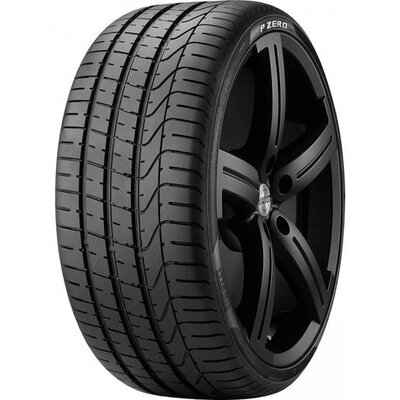
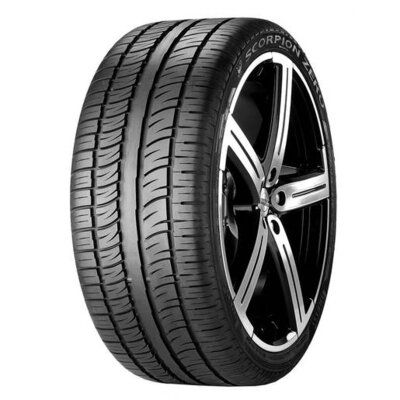
4th commit - add more cards, images and a footer

diff --git a/src/screens/CardProduto.jsx b/src/screens/CardProduto.jsx
@@ -11,21 +11,29 @@ import imagemNove from '../assets/img/volante-lotseRing.png';
 import imagemDez from '../assets/img/filtro-ar.png';
 import imagemOnze from '../assets/img/filtro-intake.png';
 import imagemDoze from '../assets/img/filtro-oleo.png';
+import imagemTreze from '../assets/img/roda-mercedes.png';
+import imagemQuatorze from '../assets/img/pneu-farroad.jpg';
+import imagemQuinze from '../assets/img/volante-lotseGT.png';
+import imagemDezesseis from '../assets/img/filtro-combustivel.jpg'
 import Card from 'react-bootstrap/Card';
 
 const produtos = [
-    { imagem: imagemUm, title: 'Audi', text: 'Rodas Aro 18 Audi RS6 Avant | Preta Diamantada', value: 'R$' },
-    { imagem: imagemDois, title: 'BMW', text: 'Rodas Aro 19 BMW M4 CS | Preta Diamantada', value: 'R$' },
-    { imagem: imagemTres, title: 'Volkswagen', text: 'Rodas Aro 20 Vw Tiguan R Line | Preta Diamantada', value: 'R$'  },
-    { imagem: imagemQuatro, title: 'Bridgestone', text: 'Pneu Bridgestone Aro 18 Potenza S001', value: 'R$'  },
-    { imagem: imagemCinco, title: 'Continental', text: 'Pneu Continental Aro 18 ContiSportContact 3', value: 'R$'  },
-    { imagem: imagemSeis, title: 'Pirelli', text: 'Pneu Pirelli Aro 18 P Zero', value: 'R$'  },
-    { imagem: imagemSete, title: 'Lotse', text: 'Volante Lotse Dakar', value: 'R$'  },
-    { imagem: imagemOito, title: 'Lotse', text: 'Volante Lotse Maxx Competition', value: 'R$'  },
-    { imagem: imagemNove, title: 'Lotse', text: 'Volante Lotse Ring', value: 'R$'  },
-    { imagem: imagemDez, title: 'K&N', text: 'Filtro de Ar Esportivo', value: 'R$'  },
-    { imagem: imagemOnze, title: 'K&N', text: 'Filtro Intake Esportivo', value: 'R$'  },
-    { imagem: imagemDoze, title: 'K&N', text: 'Filtro de Oleo Performance', value: 'R$' }
+    { imagem: imagemUm, title: 'Audi', text: 'Rodas Aro 18 Audi RS6 Avant | Preta Diamantada', value: 'R$ 7.199,99' },
+    { imagem: imagemDois, title: 'BMW', text: 'Rodas Aro 19 BMW M4 CS | Preta Diamantada', value: 'R$ 5.599,00' },
+    { imagem: imagemTreze, title: 'Mercedes', text: 'Rodas Aro 19 Mercedes C63 AMG | Preta Diamantada', value: 'R$ 8.049,00'},
+    { imagem: imagemTres, title: 'Volkswagen', text: 'Rodas Aro 20 Vw Tiguan R Line | Preta Diamantada', value: 'R$ 7.999,99'  },
+    { imagem: imagemQuatro, title: 'Bridgestone', text: 'Pneu Bridgestone Aro 18 Potenza S001', value: 'R$ 3.799,90'  },
+    { imagem: imagemCinco, title: 'Continental', text: 'Pneu Continental Aro 18 ContiSportContact 3', value: 'R$ 3.245,90'  },
+    { imagem: imagemQuatorze, title: 'Farroad', text: 'Pneu Farroad Aro 17 X-Arrow 225', value: 'R$ 518,13'},
+    { imagem: imagemSeis, title: 'Pirelli', text: 'Pneu Pirelli Aro 19 Scorpion Zero', value: 'R$ 2.639,90'  },
+    { imagem: imagemSete, title: 'Lotse', text: 'Volante Lotse Dakar', value: 'R$ 745,90'  },
+    { imagem: imagemQuinze, title: 'Lotse', text: 'Volante Lotse R GT', value: 'R$ 769,90'},
+    { imagem: imagemOito, title: 'Lotse', text: 'Volante Lotse Maxx', value: 'R$ 759,90'  },
+    { imagem: imagemNove, title: 'Lotse', text: 'Volante Lotse Ring', value: 'R$ 759,90'  },
+    { imagem: imagemDez, title: 'K&N', text: 'Filtro de Ar Esportivo', value: 'R$ 379,90'  },
+    { imagem: imagemOnze, title: 'K&N', text: 'Filtro Intake Esportivo', value: 'R$ 3.890,90'  },
+    { imagem: imagemDoze, title: 'K&N', text: 'Filtro de Oleo Performance', value: 'R$ 215,90' },
+    { imagem: imagemDezesseis, title: 'K&N', text: 'Filtro de Combustível', value: 'R$ 210,00'}
 ];
 
 function Produto() {

diff --git a/src/screens/HomeScreen.jsx b/src/screens/HomeScreen.jsx
@@ -14,7 +14,7 @@ export default function HomeScreen() {
                 <nav>
                     <ul className={styles["container-menu"]}>
                         <li><Link to="/">Home</Link></li>
-                        <li><Link to="/produto">Produto</Link></li>
+                        <li><Link to="/produto">Produtos</Link></li>
                         <li><Link to="/contato">Contato</Link></li>
                     </ul>
                 </nav>
@@ -42,6 +42,9 @@ export default function HomeScreen() {
                     </Carousel>
                 </div>
             </main>
+            <footer>
+                
+            </footer>
         </>
     )
 }

diff --git a/src/assets/css/Home.module.css b/src/assets/css/Home.module.css
@@ -1,5 +1,5 @@
 header {
-    background-color: #070707;
+    background-color: #1f1f1e;
     height: 100px;
     display: flex;
     align-items: center;
@@ -10,7 +10,7 @@ header {
 
 body {
     margin: 0 !important;
-    background-color: #0e0e0f !important;
+    background-color: darkgray !important;
 }
 
 .container-home {
@@ -80,4 +80,14 @@ body {
     margin-top: 50px;
     border-radius: 10px;
     box-shadow: rgba(0, 0, 0, 0.25) 0px 5px 15px;
+}
+
+footer {
+    background-color: #1f1f1e;
+    height: 80px;
+    padding: 20px;
+    bottom: 0;
+    position: fixed;
+    width: 100%;
+    margin-top: 30px;
 }

diff --git a/src/assets/css/Cards.module.css b/src/assets/css/Cards.module.css
@@ -1,7 +1,7 @@
 .container-products {
-    margin-top: 20px;
+    margin-top: 10px;
     display: flex;
-    gap: 40px;
+    gap: 30px;
     flex-wrap: wrap;
     justify-content: space-between;
 }
@@ -18,9 +18,9 @@
     font-size: 16px;
     height: 450px;
     justify-content: center;
-    margin: 10px;
+    margin: 20px;
     margin-top: 50px;
-    width: calc(30% - 120px);
+    width: calc(30% - 130px);
     position: relative;
 }
 
@@ -28,10 +28,6 @@
     object-fit: cover;
     border-top-right-radius: 15px;
     border-top-left-radius: 15px;
-}
-
-.card-img img {
-    max-width: 250px;
 }
 
 .title-card {

diff --git a/src/screens/ContatoScreen.jsx b/src/screens/ContatoScreen.jsx
@@ -13,7 +13,7 @@ export default function ContatoScreen() {
                 <nav>
                     <ul className={styles["container-menu"]}>
                         <li><Link to="/">Home</Link></li>
-                        <li><Link to="/produto">Produto</Link></li>
+                        <li><Link to="/produto">Produtos</Link></li>
                         <li><Link to="/contato">Contato</Link></li>
                     </ul>
                 </nav>
